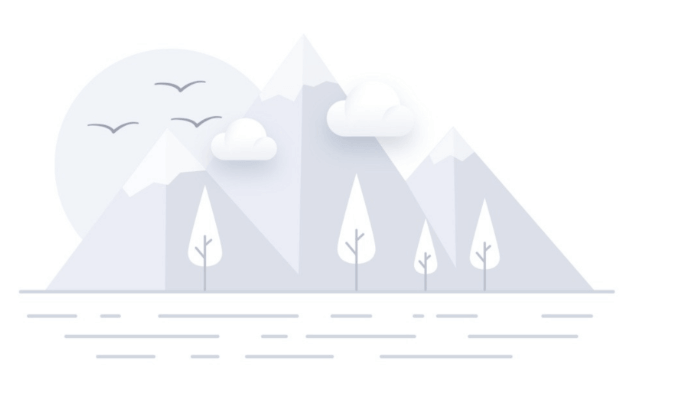
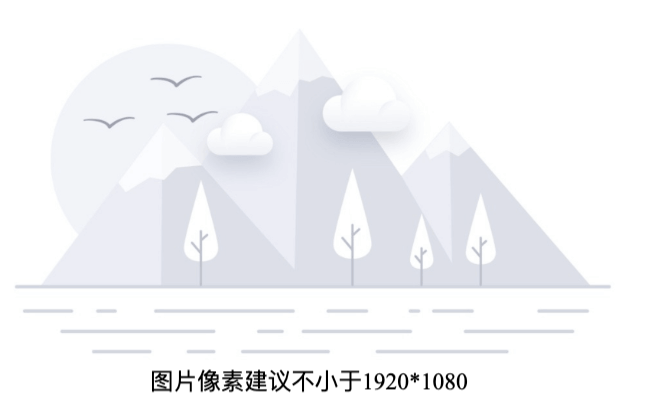
perf: 调整样式

diff --git a/src/pages/App.tsx b/src/pages/App.tsx
@@ -18,7 +18,7 @@ import { ROTATE_ANGLE, useRotate } from '../hooks/useRotate'
 import { useTriggerClickUpload } from '../hooks/useTriggerClickUpload'
 import { Button, Empty, message, Modal, Tooltip } from 'antd';
 import { unstable_batchedUpdates } from 'react-dom';
-import { isEmpty } from 'lodash-es'
+import { isEmpty } from 'lodash-es';
 import empty from '../assets/empty.png'
 import './styles.less'
 
@@ -247,13 +247,18 @@ export default function App() {
                     />
                   </ReactCrop>
                 ) :
-                  <Empty
-                    description={
-                      <div style={{ marginTop: '30%' }}>
-                        <p>图片像素建议不小于1920*1080</p>
-                        <Button style={{ marginTop: 20 }} type='primary' onClick={triggerUpload}>点击上传图片素材</Button>
-                      </div>
-                    } image={<img src={empty} style={{ height: previewHeight * 0.5 }} />} />}
+
+                  <div style={{
+                    display: 'flex',
+                    flexDirection: 'column',
+                    alignItems: 'center',
+                    justifyContent: 'center',
+                    height: previewHeight - 20,
+                  }}>
+                    <img src={empty} style={{ height: '57%' }} />
+                    <Button style={{ marginTop: 20 }} type='primary' onClick={triggerUpload}>点击上传图片素材</Button>
+                  </div>
+                }
 
               </div>
             </div>
